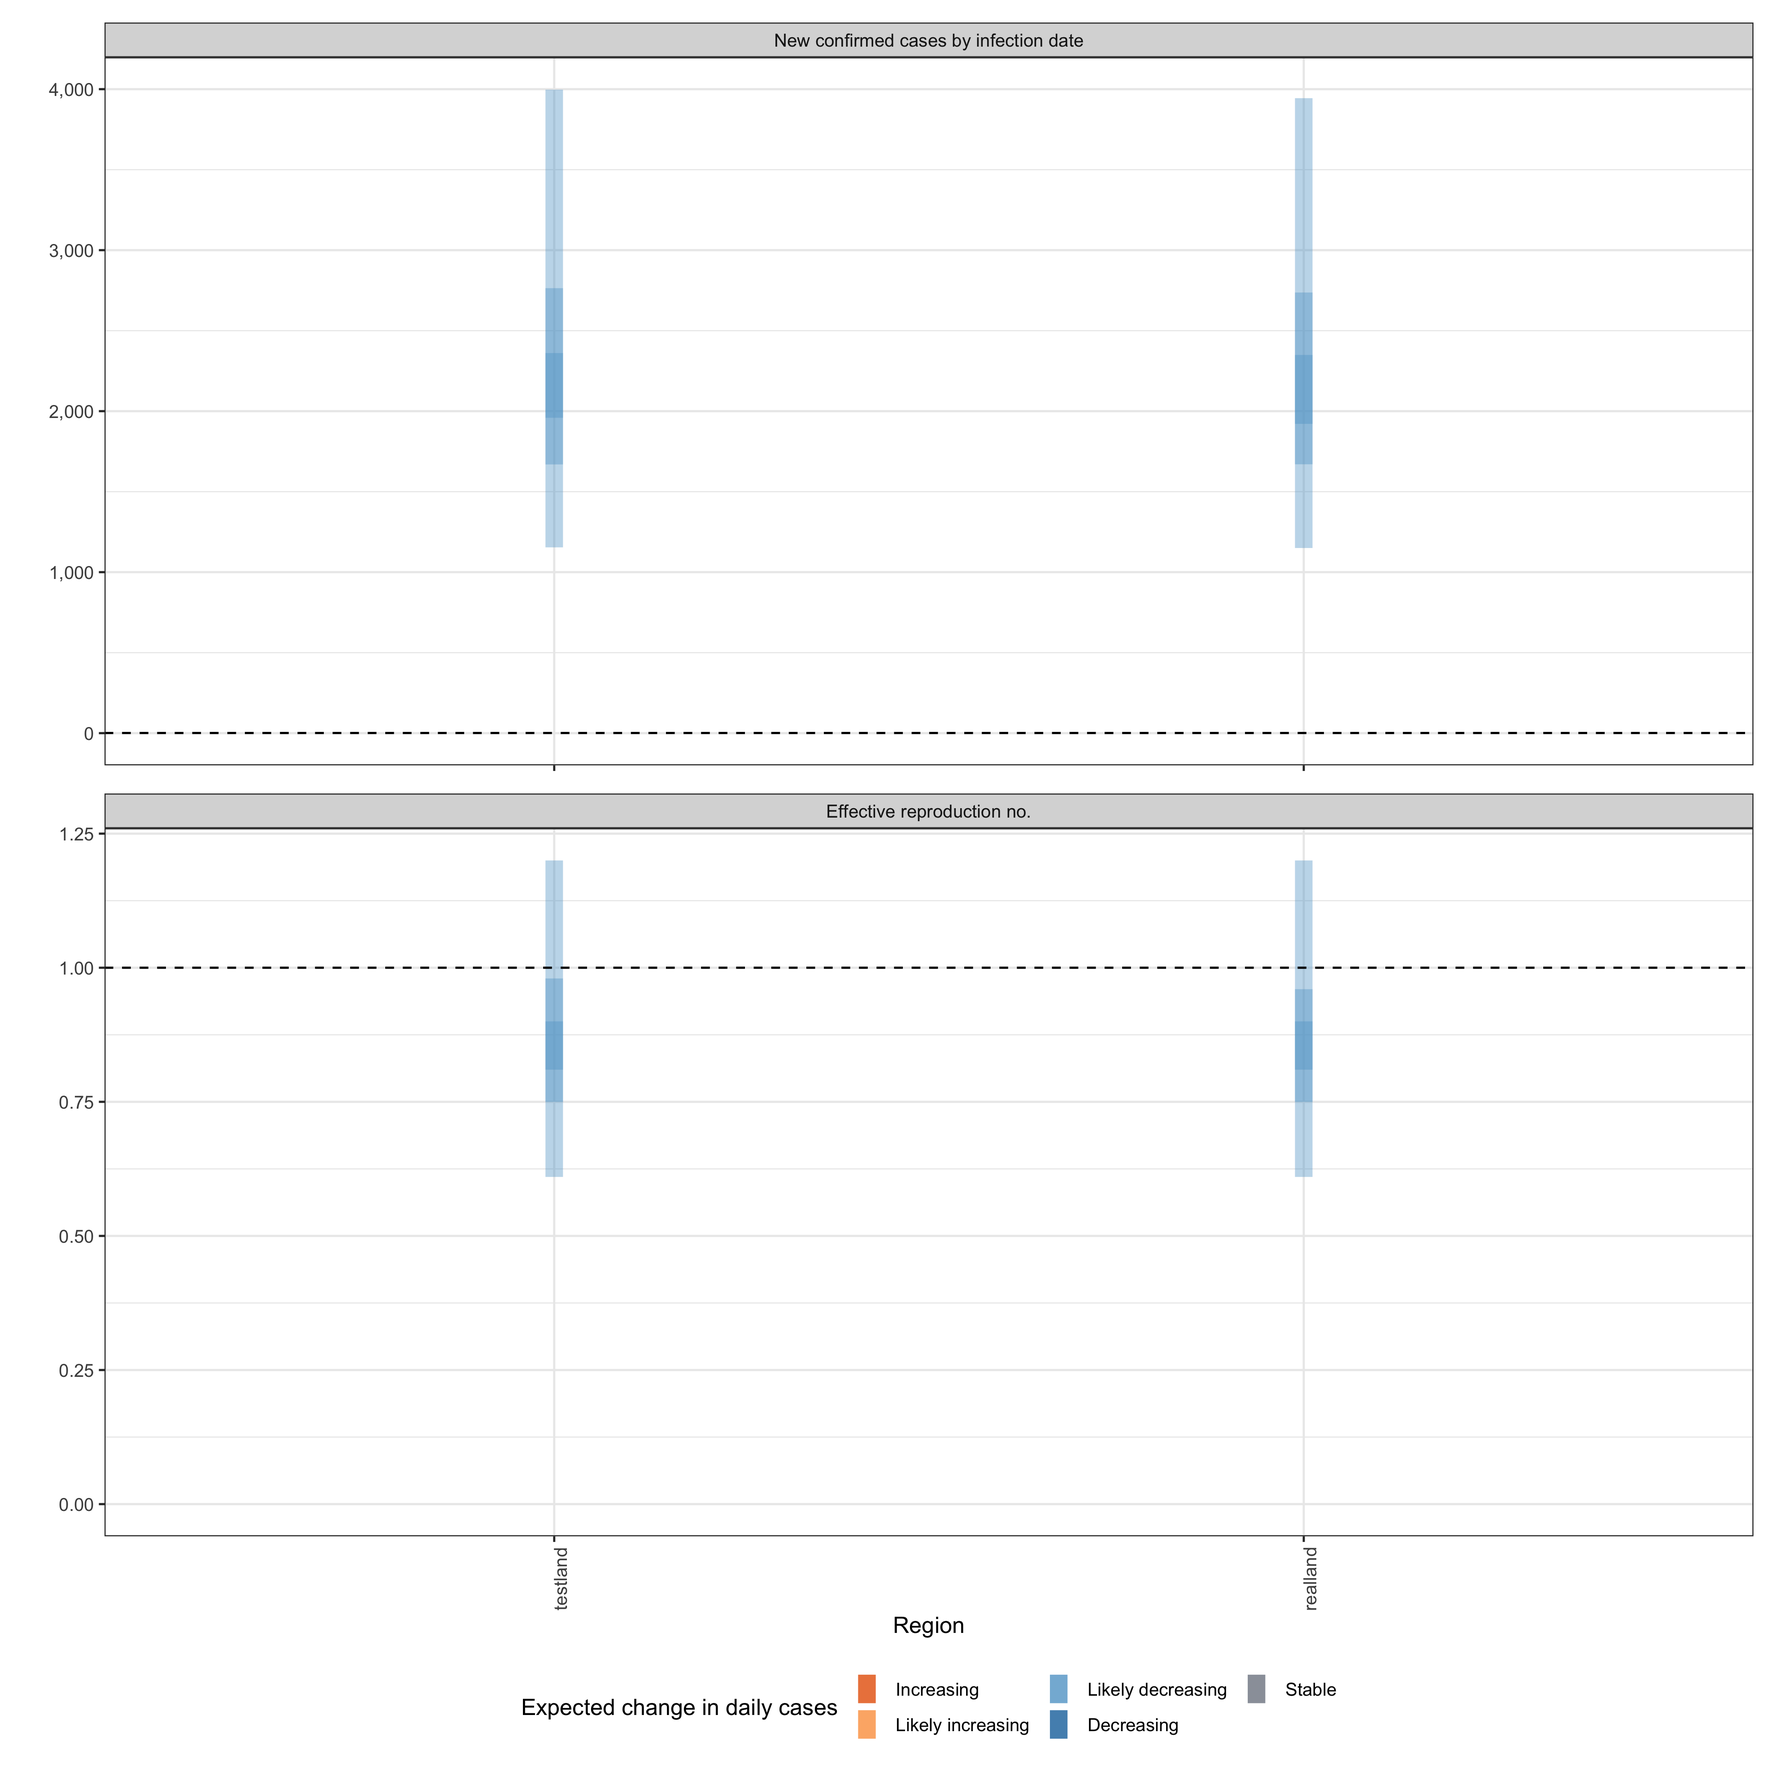
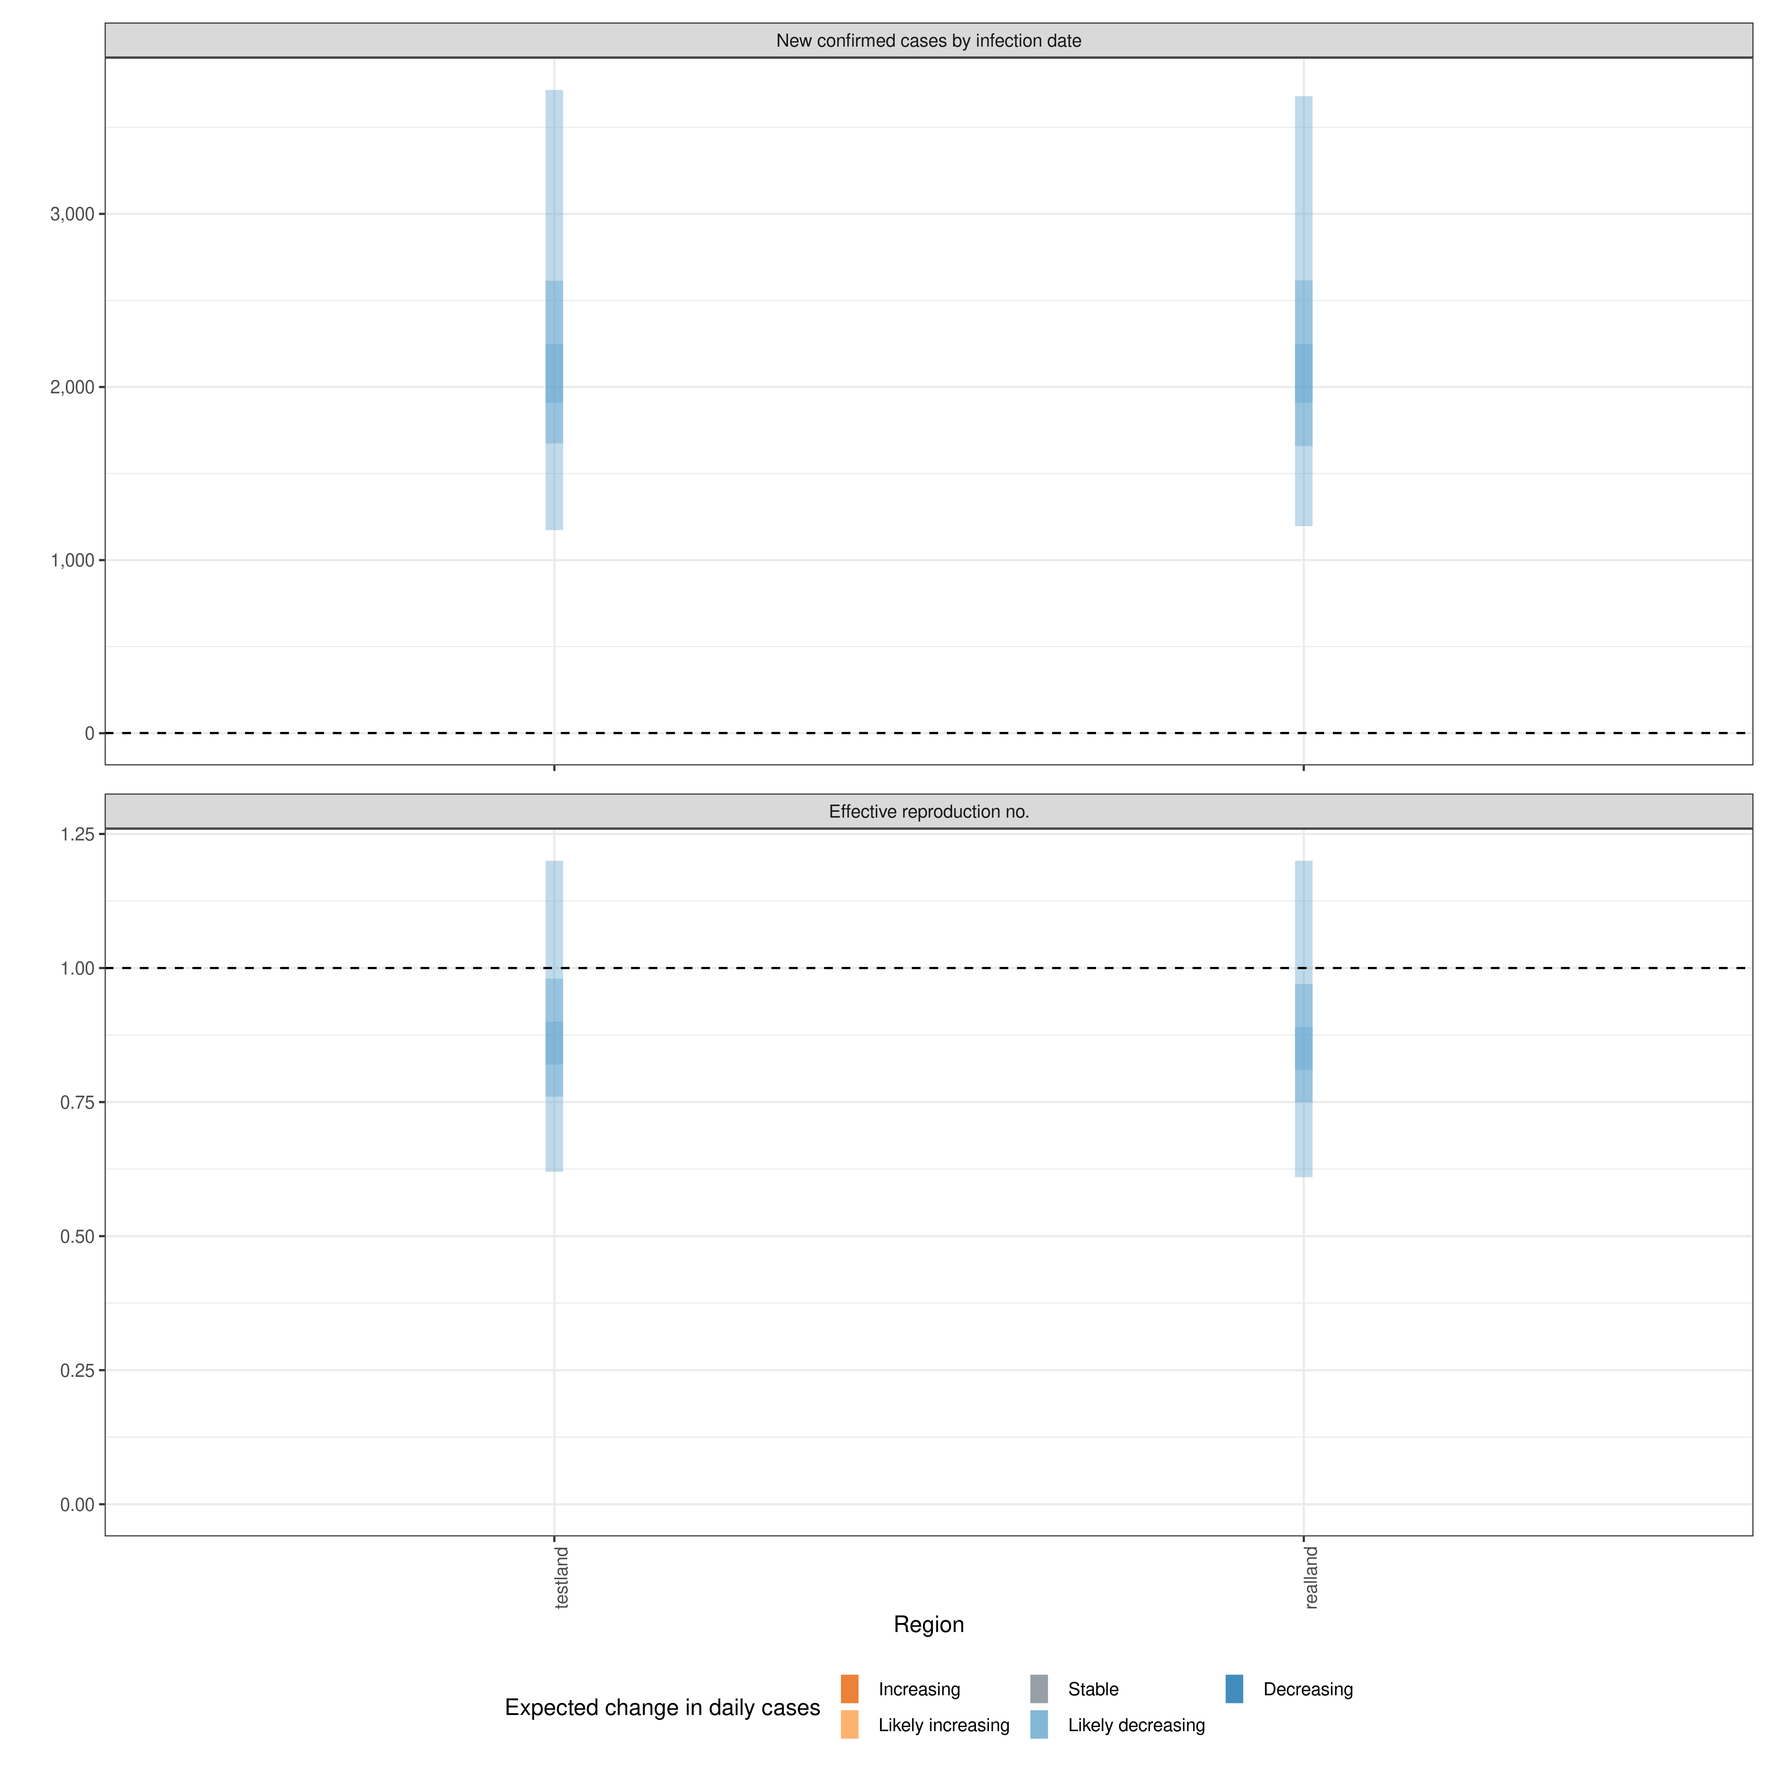
Documentation: Update README

diff --git a/README.md b/README.md
@@ -15,7 +15,7 @@ contributors](https://img.shields.io/github/contributors/epiforecasts/EpiNow2)](
 [![PRs
 Welcome](https://img.shields.io/badge/PRs-welcome-yellow.svg)](https://makeapullrequest.com/)
 [![GitHub
-commits](https://img.shields.io/github/commits-since/epiforecasts/EpiNow2/v1.3.4.svg?color=orange)](https://GitHub.com/epiforecasts/EpiNow2/commit/main/)
+commits](https://img.shields.io/github/commits-since/epiforecasts/EpiNow2/v1.34.svg?color=orange)](https://GitHub.com/epiforecasts/EpiNow2/commit/main/)
 [![DOI](https://zenodo.org/badge/272995211.svg)](https://zenodo.org/badge/latestdoi/272995211)
 
 This package estimates the time-varying reproduction number, growth
@@ -44,17 +44,17 @@ The default model uses a non-stationary Gaussian process to estimate the
 time-varying reproduction number and then infer infections. Other
 options include:
 
--   A stationary Gaussian process (faster to estimate but currently
+  - A stationary Gaussian process (faster to estimate but currently
     gives reduced performance for real time estimates).
--   User specified breakpoints.
--   A fixed reproduction number.
--   As piecewise constant by combining a fixed reproduction number with
+  - User specified breakpoints.
+  - A fixed reproduction number.
+  - As piecewise constant by combining a fixed reproduction number with
     breakpoints.
--   As a random walk (by combining a fixed reproduction number with
+  - As a random walk (by combining a fixed reproduction number with
     regularly spaced breakpoints (i.e weekly)).
--   Inferring infections using back-calculation and then calculating the
+  - Inferring infections using back-calculation and then calculating the
     time-varying reproduction number.
--   Adjustment for the remaining susceptible population beyond the
+  - Adjustment for the remaining susceptible population beyond the
     forecast horizon.
 
 These options generally reduce runtimes at the cost of the granularity
@@ -155,7 +155,8 @@ as follows (note this is a synthetic example),
 
 ``` r
 reporting_delay <- estimate_delay(
-  rlnorm(1000, log(2), 1), max_value = 15, bootstraps = 1
+  rlnorm(1000, log(2), 1),
+  max_value = 15, bootstraps = 1
 )
 ```
 
@@ -165,8 +166,8 @@ real world use cases),
 
 ``` r
 reporting_delay <- list(
-  mean = convert_to_logmean(2, 1), mean_sd = 0.1,
-  sd = convert_to_logsd(2, 1), sd_sd = 0.1,
+  mean = convert_to_logmean(2, 1), mean_sd = 0.05,
+  sd = convert_to_logsd(2, 1), sd_sd = 0.05,
   max = 10
 )
 ```
@@ -179,10 +180,10 @@ may not be applicable for your use case.
 
 ``` r
 generation_time <- get_generation_time(
-  disease = "SARS-CoV-2", source = "ganyani"
+  disease = "SARS-CoV-2", source = "ganyani", max = 10
 )
 incubation_period <- get_incubation_period(
-  disease = "SARS-CoV-2", source = "lauer"
+  disease = "SARS-CoV-2", source = "lauer", max = 10
 )
 ```
 
@@ -213,9 +214,10 @@ number, the rate of growth and forecast these estimates into the future
 by 7 days. Summarise the posterior and return a summary table and plots
 for reporting purposes. If a `target_folder` is supplied results can be
 internally saved (with the option to also turn off explicit returning of
-results). Here we use the default model parameterisation that priorities
-real-time performance over run-time or other considerations. For other
-formulations see the documentation for `estimate_infections()`.
+results). Here we use the default model parameterisation that
+prioritises real-time performance over run-time or other considerations.
+For other formulations see the documentation for
+`estimate_infections()`.
 
 ``` r
 estimates <- epinow(
@@ -223,14 +225,10 @@ estimates <- epinow(
   generation_time = generation_time,
   delays = delay_opts(incubation_period, reporting_delay),
   rt = rt_opts(prior = list(mean = 2, sd = 0.2)),
-  stan = stan_opts(cores = 4),
+  stan = stan_opts(cores = 4, control = list(adapt_delta = 0.99)),
   verbose = interactive()
 )
-#> WARN [2022-10-17 14:32:32] epinow: There were 7 divergent transitions after warmup. See
-#> https://mc-stan.org/misc/warnings.html#divergent-transitions-after-warmup
-#> to find out why this is a problem and how to eliminate them. - 
-#> WARN [2022-10-17 14:32:32] epinow: Examine the pairs() plot to diagnose sampling problems
-#>  -
+#> DEBUG [2023-01-18 21:43:36] epinow: Running in exact mode for 2000 samples (across 4 chains each with a warm up of 250 iterations each) and 74 time steps of which 7 are a forecast
 names(estimates)
 #> [1] "estimates"                "estimated_reported_cases"
 #> [3] "summary"                  "plots"                   
@@ -247,34 +245,42 @@ knitr::kable(summary(estimates))
 ```
 
 | measure                               | estimate               |
-|:--------------------------------------|:-----------------------|
-| New confirmed cases by infection date | 2129 (1062 – 3941)     |
+| :------------------------------------ | :--------------------- |
+| New confirmed cases by infection date | 2155 (1068 – 3879)     |
 | Expected change in daily cases        | Likely decreasing      |
-| Effective reproduction no.            | 0.85 (0.58 – 1.1)      |
-| Rate of growth                        | -0.043 (-0.13 – 0.036) |
-| Doubling/halving time (days)          | -16 (19 – -5.5)        |
+| Effective reproduction no.            | 0.86 (0.6 – 1.1)       |
+| Rate of growth                        | \-0.04 (-0.12 – 0.035) |
+| Doubling/halving time (days)          | \-17 (20 – -5.8)       |
 
 Summarised parameter estimates can also easily be returned, either
 filtered for a single parameter or for all parameters.
 
 ``` r
 head(summary(estimates, type = "parameters", params = "R"))
-#>          date variable  strat     type   median     mean         sd lower_90
-#>        <Date>   <char> <char>   <char>    <num>    <num>      <num>    <num>
-#> 1: 2020-03-01        R   <NA> estimate 2.032944 2.034600 0.12263909 1.835007
-#> 2: 2020-03-02        R   <NA> estimate 1.985030 1.984939 0.09867913 1.822082
-#> 3: 2020-03-03        R   <NA> estimate 1.934373 1.933439 0.07997513 1.802737
-#> 4: 2020-03-04        R   <NA> estimate 1.880721 1.880345 0.06627518 1.774494
-#> 5: 2020-03-05        R   <NA> estimate 1.825444 1.825928 0.05691746 1.736169
-#> 6: 2020-03-06        R   <NA> estimate 1.769794 1.770473 0.05090067 1.690933
-#>    lower_50 lower_20 upper_20 upper_50 upper_90
-#>       <num>    <num>    <num>    <num>    <num>
-#> 1: 1.950837 2.002272 2.064961 2.114401 2.234420
-#> 2: 1.917444 1.960005 2.010231 2.048900 2.145482
-#> 3: 1.877844 1.913317 1.954001 1.986164 2.065259
-#> 4: 1.834894 1.863750 1.895996 1.923908 1.990647
-#> 5: 1.786278 1.811667 1.837823 1.863695 1.917388
-#> 6: 1.735544 1.756891 1.780755 1.805549 1.853105
+#>          date variable  strat     type   median     mean
+#>        <Date>   <char> <char>   <char>    <num>    <num>
+#> 1: 2020-02-25        R   <NA> estimate 2.065829 2.072397
+#> 2: 2020-02-26        R   <NA> estimate 2.028341 2.032065
+#> 3: 2020-02-27        R   <NA> estimate 1.988446 1.991100
+#> 4: 2020-02-28        R   <NA> estimate 1.949131 1.949639
+#> 5: 2020-02-29        R   <NA> estimate 1.907343 1.907810
+#> 6: 2020-03-01        R   <NA> estimate 1.865667 1.865723
+#>            sd lower_90 lower_50 lower_20 upper_20 upper_50
+#>         <num>    <num>    <num>    <num>    <num>    <num>
+#> 1: 0.12685720 1.873162 1.987449 2.036753 2.100213 2.152940
+#> 2: 0.10264874 1.865377 1.963180 2.004094 2.055362 2.099367
+#> 3: 0.08384514 1.855377 1.933914 1.969500 2.011835 2.047998
+#> 4: 0.07003120 1.837577 1.900835 1.932157 1.966650 1.998166
+#> 5: 0.06045323 1.810256 1.868194 1.893597 1.922287 1.948232
+#> 6: 0.05407338 1.774314 1.832062 1.853145 1.878255 1.900403
+#>    upper_90
+#>       <num>
+#> 1: 2.288921
+#> 2: 2.203336
+#> 3: 2.131155
+#> 4: 2.063657
+#> 5: 2.005690
+#> 6: 1.955251
 ```
 
 Reported cases are returned in a separate data frame in order to
@@ -282,22 +288,22 @@ streamline the reporting of forecasts and for model evaluation.
 
 ``` r
 head(summary(estimates, output = "estimated_reported_cases"))
-#>          date   type median     mean        sd lower_90 lower_50 lower_20
-#>        <Date> <char>  <num>    <num>     <num>    <num>    <num>    <num>
-#> 1: 2020-03-01  gp_rt    475 483.0345  97.82515   344.00   412.00      449
-#> 2: 2020-03-02  gp_rt    459 468.1570  91.35410   336.00   405.00      437
-#> 3: 2020-03-03  gp_rt    404 409.2815  80.80733   289.00   351.00      383
-#> 4: 2020-03-04  gp_rt    389 397.9765  80.98656   281.95   342.00      372
-#> 5: 2020-03-05  gp_rt    533 543.8765 109.13966   380.95   470.00      509
-#> 6: 2020-03-06  gp_rt    749 759.3375 146.37409   535.95   652.75      714
-#>    upper_20 upper_50 upper_90
-#>       <num>    <num>    <num>
-#> 1:      500   538.00   652.00
-#> 2:      483   521.00   629.10
-#> 3:      425   459.00   551.05
-#> 4:      409   446.00   548.05
-#> 5:      560   611.00   734.00
-#> 6:      788   852.25  1008.05
+#>          date   type median     mean       sd lower_90 lower_50
+#>        <Date> <char>  <num>    <num>    <num>    <num>    <num>
+#> 1: 2020-02-25  gp_rt    135 137.4510 30.71554    93.00      115
+#> 2: 2020-02-26  gp_rt    123 124.8070 27.21185    83.00      106
+#> 3: 2020-02-27  gp_rt    142 144.1400 31.78009    96.95      122
+#> 4: 2020-02-28  gp_rt    191 195.2790 42.70302   131.00      165
+#> 5: 2020-02-29  gp_rt    211 213.9030 46.34714   142.95      183
+#> 6: 2020-03-01  gp_rt    286 290.6265 60.58639   199.00      249
+#>    lower_20 upper_20 upper_50 upper_90
+#>       <num>    <num>    <num>    <num>
+#> 1:      127    143.0      156   189.00
+#> 2:      116    129.4      142   176.00
+#> 3:      134    150.0      163   200.00
+#> 4:      181    203.0      222   271.05
+#> 5:      199    223.0      244   297.00
+#> 6:      271    302.0      330   397.00
 ```
 
 A range of plots are returned (with the single summary plot shown
@@ -310,7 +316,7 @@ plot(estimates)
 
 ![](man/figures/unnamed-chunk-14-1.png)<!-- -->
 
-### [regional_epinow()](https://epiforecasts.io/EpiNow2/reference/regional_epinow.html)
+### [regional\_epinow()](https://epiforecasts.io/EpiNow2/reference/regional_epinow.html)
 
 The `regional_epinow()` function runs the `epinow()` function across
 multiple regions in an efficient manner.
@@ -319,8 +325,9 @@ Define cases in multiple regions delineated by the region variable.
 
 ``` r
 reported_cases <- data.table::rbindlist(list(
-   data.table::copy(reported_cases)[, region := "testland"],
-   reported_cases[, region := "realland"]))
+  data.table::copy(reported_cases)[, region := "testland"],
+  reported_cases[, region := "realland"]
+))
 head(reported_cases)
 #>          date confirm   region
 #>        <Date>   <num>   <char>
@@ -346,19 +353,27 @@ estimates <- regional_epinow(
   gp = NULL,
   stan = stan_opts(cores = 4, warmup = 250, samples = 1000)
 )
-#> INFO [2022-10-17 14:32:38] Producing following optional outputs: regions, summary, samples, plots, latest
-#> INFO [2022-10-17 14:32:38] Reporting estimates using data up to: 2020-04-21
-#> INFO [2022-10-17 14:32:38] No target directory specified so returning output
-#> INFO [2022-10-17 14:32:38] Producing estimates for: testland, realland
-#> INFO [2022-10-17 14:32:38] Regions excluded: none
-#> INFO [2022-10-17 14:46:01] Completed estimates for: testland
-#> INFO [2022-10-17 14:54:19] Completed estimates for: realland
-#> INFO [2022-10-17 14:54:19] Completed regional estimates
-#> INFO [2022-10-17 14:54:19] Regions with estimates: 2
-#> INFO [2022-10-17 14:54:19] Regions with runtime errors: 0
-#> INFO [2022-10-17 14:54:19] Producing summary
-#> INFO [2022-10-17 14:54:19] No summary directory specified so returning summary output
-#> INFO [2022-10-17 14:54:20] No target directory specified so returning timings
+#> INFO [2023-01-18 21:47:04] Producing following optional outputs: regions, summary, samples, plots, latest
+#> INFO [2023-01-18 21:47:04] Reporting estimates using data up to: 2020-04-21
+#> INFO [2023-01-18 21:47:04] No target directory specified so returning output
+#> INFO [2023-01-18 21:47:04] Producing estimates for: testland, realland
+#> INFO [2023-01-18 21:47:04] Regions excluded: none
+#> DEBUG [2023-01-18 21:47:04] testland: Running in exact mode for 1000 samples (across 4 chains each with a warm up of 250 iterations each) and 74 time steps of which 7 are a forecast
+#> WARN [2023-01-18 21:47:27] testland (chain: 1): Bulk Effective Samples Size (ESS) is too low, indicating posterior means and medians may be unreliable.
+#> Running the chains for more iterations may help. See
+#> https://mc-stan.org/misc/warnings.html#bulk-ess - 
+#> INFO [2023-01-18 21:47:28] Completed estimates for: testland
+#> DEBUG [2023-01-18 21:47:28] realland: Running in exact mode for 1000 samples (across 4 chains each with a warm up of 250 iterations each) and 74 time steps of which 7 are a forecast
+#> WARN [2023-01-18 21:47:50] realland (chain: 1): Bulk Effective Samples Size (ESS) is too low, indicating posterior means and medians may be unreliable.
+#> Running the chains for more iterations may help. See
+#> https://mc-stan.org/misc/warnings.html#bulk-ess - 
+#> INFO [2023-01-18 21:47:51] Completed estimates for: realland
+#> INFO [2023-01-18 21:47:51] Completed regional estimates
+#> INFO [2023-01-18 21:47:51] Regions with estimates: 2
+#> INFO [2023-01-18 21:47:51] Regions with runtime errors: 0
+#> INFO [2023-01-18 21:47:51] Producing summary
+#> INFO [2023-01-18 21:47:51] No summary directory specified so returning summary output
+#> INFO [2023-01-18 21:47:52] No target directory specified so returning timings
 ```
 
 Results from each region are stored in a `regional` list with across
@@ -381,10 +396,10 @@ output.
 knitr::kable(estimates$summary$summarised_results$table)
 ```
 
-| Region   | New confirmed cases by infection date | Expected change in daily cases | Effective reproduction no. | Rate of growth         | Doubling/halving time (days) |
-|:---------|:--------------------------------------|:-------------------------------|:---------------------------|:-----------------------|:-----------------------------|
-| realland | 2136 (1150 – 3944)                    | Likely decreasing              | 0.85 (0.61 – 1.2)          | -0.041 (-0.11 – 0.044) | -17 (16 – -6)                |
-| testland | 2146 (1154 – 3997)                    | Likely decreasing              | 0.86 (0.61 – 1.2)          | -0.04 (-0.12 – 0.045)  | -17 (15 – -6)                |
+| Region   | New confirmed cases by infection date | Expected change in daily cases | Effective reproduction no. | Rate of growth          | Doubling/halving time (days) |
+| :------- | :------------------------------------ | :----------------------------- | :------------------------- | :---------------------- | :--------------------------- |
+| realland | 2072 (1196 – 3680)                    | Likely decreasing              | 0.85 (0.61 – 1.2)          | \-0.043 (-0.11 – 0.049) | \-16 (14 – -6.1)             |
+| testland | 2077 (1173 – 3716)                    | Likely decreasing              | 0.86 (0.62 – 1.2)          | \-0.039 (-0.11 – 0.05)  | \-18 (14 – -6.2)             |
 
 A range of plots are again returned (with the single summary plot shown
 below).
